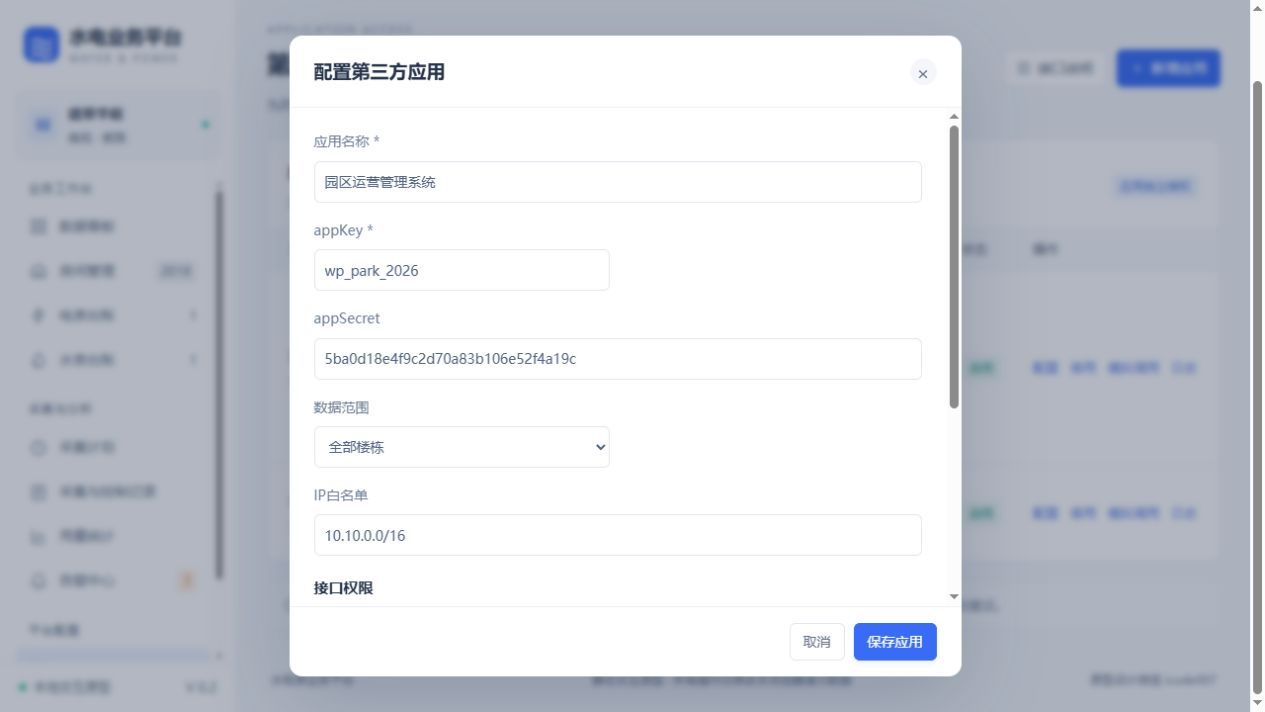
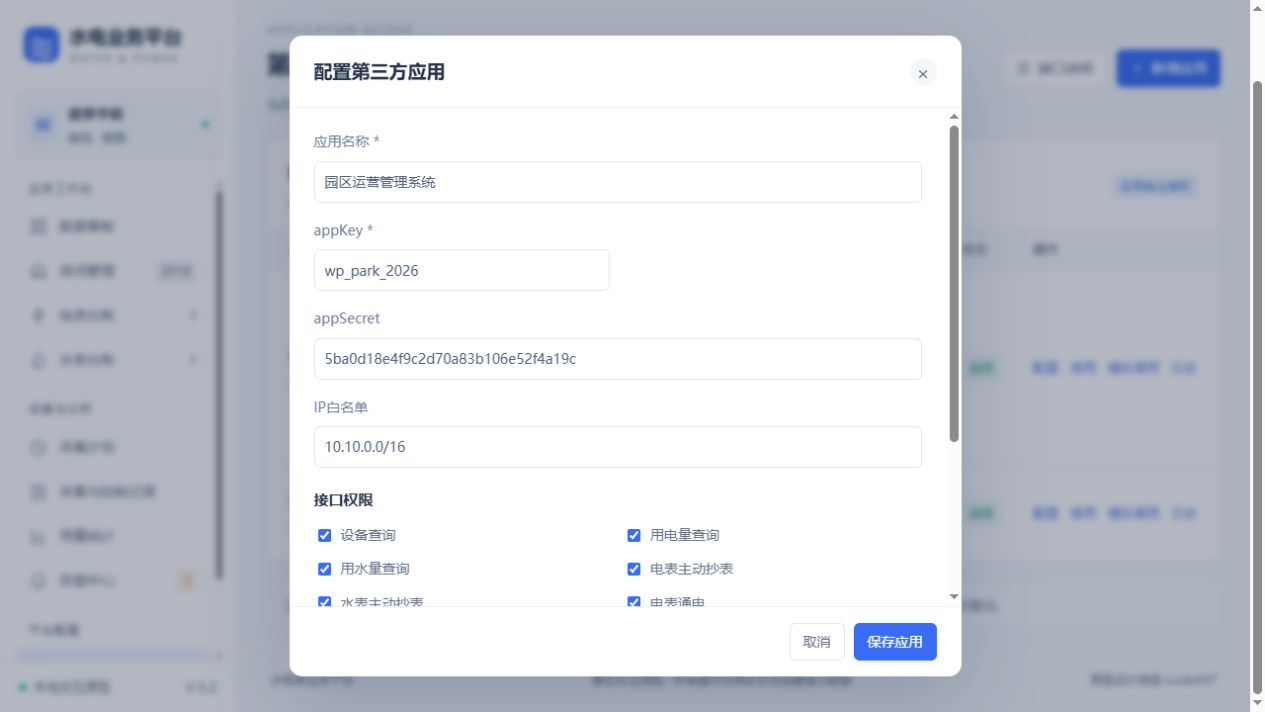
Use all water and electricity meters as the fixed application data scope

diff --git a/业务平台/原型/third-party.js b/业务平台/原型/third-party.js
@@ -15,13 +15,11 @@ const appOperations={
  valve_open:{type:'water',operation:'valve_open',scope:'water.valve.open',label:'水表开阀（通水）',path:'valve-open-tasks'},
  valve_close:{type:'water',operation:'valve_close',scope:'water.valve.close',label:'水表关阀（断水）',path:'valve-close-tasks'}
 };
-function appDeviceAllowed(app,device){return app.building==='全部位置'||(roomFor(device.id)?.building||device.building)===app.building}
 function submitThirdPartyTask(appId,deviceId,action,idempotencyKey){
  const app=data.apps.find(a=>a.id===appId),d=devices.find(d=>d.id===deviceId),op=appOperations[action];
  if(!app?.enabled)throw Error('应用不存在或已停用');
  if(!op||!d||d.type!==op.type)throw Error('设备类型与操作不匹配');
  if(!app.scopes.includes(op.scope))throw Error('应用没有“'+op.label+'”权限');
- if(!appDeviceAllowed(app,d))throw Error('设备不在此应用的授权范围内');
  if(!data.integration.enabled)throw Error('采集服务对接已停用');
  const key=String(idempotencyKey||'').trim();if(!key||key.length>128)throw Error('请填写1–128位幂等键');
  const existing=data.tasks.find(t=>t.appId===appId&&t.idempotencyKey===key);
@@ -34,16 +32,16 @@ function submitThirdPartyTask(appId,deviceId,action,idempotencyKey){
 }
 function thirdPartyTaskResult(appId,taskId){
  const app=data.apps.find(a=>a.id===appId),task=data.tasks.find(t=>t.id===taskId&&t.appId===appId),d=devices.find(d=>d.id===task?.deviceId);
- if(!app?.enabled||!task||!d||!app.scopes.includes(task.originScope)||!appDeviceAllowed(app,d))throw Error('任务不存在或当前应用无权查看');
+ if(!app?.enabled||!task||!d||!app.scopes.includes(task.originScope))throw Error('任务不存在或当前应用无权查看');
  return {taskId:task.id,deviceCode:task.deviceId,operation:taskOperationName(task),status:task.status,createdAt:task.createdAt,successAt:task.successAt,resultReading:task.resultReading||null,resultState:task.resultState||null,error:task.status==='success'?null:task.note};
 }
 function appCallForm(appId){
  const app=data.apps.find(a=>a.id===appId);if(!app)return;
- modal('模拟第三方调用',`<form id="app-call-form"><div class="form-grid"><label class="field full">应用<input readonly value="${esc(app.name)} / ${esc(app.key)}"></label><label class="field">执行操作<select id="app-call-action" name="action">${Object.entries(appOperations).map(([k,v])=>`<option value="${k}">${v.label}${app.scopes.includes(v.scope)?'':' · 未授权'}</option>`).join('')}</select></label><label class="field">设备编码<select id="app-call-device" name="deviceId"></select></label><label class="field full">幂等键<input name="idempotencyKey" required maxlength="128" value="demo-${Date.now().toString(36)}-${randomHex(3)}"></label></div><div class="form-note">模拟应用权限、数据范围、任务受理与执行结果；同一幂等键重复提交返回同一任务。所有操作只修改本地演示数据，不发送实际TCP指令。</div><div id="app-call-error" class="form-error" role="alert"></div></form>`,btn('取消','data-close')+btn('模拟提交','form="app-call-form" type="submit"',true));
+ modal('模拟第三方调用',`<form id="app-call-form"><div class="form-grid"><label class="field full">应用<input readonly value="${esc(app.name)} / ${esc(app.key)}"></label><label class="field">执行操作<select id="app-call-action" name="action">${Object.entries(appOperations).map(([k,v])=>`<option value="${k}">${v.label}${app.scopes.includes(v.scope)?'':' · 未授权'}</option>`).join('')}</select></label><label class="field">设备编码<select id="app-call-device" name="deviceId"></select></label><label class="field full">幂等键<input name="idempotencyKey" required maxlength="128" value="demo-${Date.now().toString(36)}-${randomHex(3)}"></label></div><div class="form-note">数据范围为全部水电表，模拟应用权限、任务受理与执行结果；同一幂等键重复提交返回同一任务。所有操作只修改本地演示数据，不发送实际TCP指令。</div><div id="app-call-error" class="form-error" role="alert"></div></form>`,btn('取消','data-close')+btn('模拟提交','form="app-call-form" type="submit"',true));
  const choices=()=>{const op=appOperations[$('#app-call-action').value];$('#app-call-device').innerHTML=devices.filter(d=>d.type===op.type).map(d=>`<option value="${esc(d.id)}">${esc(d.id)} · ${d.type==='water'?'水表':'电表'}</option>`).join('')};choices();$('#app-call-action').onchange=choices;
  $('#app-call-form').onsubmit=event=>{event.preventDefault();const v=Object.fromEntries(new FormData(event.currentTarget));try{const task=submitThirdPartyTask(appId,v.deviceId,v.action,v.idempotencyKey);render();modal('模拟请求已受理',`<div class="detail-grid"><div><span>任务编号</span><b>${esc(task.id)}</b></div><div><span>来源应用</span><b>${esc(app.name)}</b></div><div><span>执行操作</span><b>${taskOperationName(task)}</b></div><div><span>设备编码</span><b>${esc(task.deviceId)}</b></div></div><p class="form-note">受理不等于执行成功。任务详情会继续更新发送、响应及最终结果；控制不自动重试。</p>`,btn('关闭','data-close')+btn('查看任务','id="app-call-task"',true));$('#app-call-task').onclick=()=>taskDetail(task.id);}catch(error){$('#app-call-error').textContent=error.message}};
 }
 function thirdPartyApiDocs(){
  const queries=[['meter.read','/openapi/v1/meters','设备列表'],['meter.read','/openapi/v1/meters/{id}','设备详情'],['electricity.read','/openapi/v1/meters/{id}/electricity','已保存的用电量'],['water.read','/openapi/v1/meters/{id}/water','已保存的用水量']];
- modal('开放接口说明',`<p class="form-note">第三方应用按权限查询设备及用量，也可主动抄表、控制电表通断电和水表开关阀。原型只演示交互，以下HTTP接口为开发契约。</p><div class="endpoint"><b>POST</b> /oauth2/token<span class="subtext">appKey / appSecret换取应用令牌</span></div><div class="detail-title">数据查询</div>${queries.map(([scope,path,label])=>`<div class="endpoint"><b>GET</b> ${path}<span class="subtext">${label} · ${scope}</span></div>`).join('')}<div class="detail-title">主动抄表与控制</div>${Object.values(appOperations).map(op=>`<div class="endpoint"><b>POST</b> /openapi/v1/meters/{id}/${op.path}<span class="subtext">${op.label} · ${op.scope}</span></div>`).join('')}<div class="endpoint"><b>GET</b> /openapi/v1/tasks/{taskId}<span class="subtext">只查询本应用创建且当前仍有操作权限的任务，随对应操作权限授权</span></div><div class="note-bar soft">${ico('info')}操作提交带Idempotency-Key，返回202及taskId；结果查询区分受理、发送、成功、失败和结果未确认。控制不自动重试。电表短确认后读回核验；水表依据05状态应答判断目标阀状态。</div><p class="form-note">现有解析端已具备水表05开关阀；其最新版本禁用了水表主动抄表，正式对接water.poll前需恢复受控主动读表能力。普通数据查询仍只读已保存数据。</p>`,btn('关闭','data-close'),true);
+ modal('开放接口说明',`<p class="form-note">第三方应用的数据范围为全部水电表；按操作权限查询、主动抄表、控制电表通断电和水表开关阀。原型只演示交互，以下HTTP接口为开发契约。</p><div class="endpoint"><b>POST</b> /oauth2/token<span class="subtext">appKey / appSecret换取应用令牌</span></div><div class="detail-title">数据查询</div>${queries.map(([scope,path,label])=>`<div class="endpoint"><b>GET</b> ${path}<span class="subtext">${label} · ${scope}</span></div>`).join('')}<div class="detail-title">主动抄表与控制</div>${Object.values(appOperations).map(op=>`<div class="endpoint"><b>POST</b> /openapi/v1/meters/{id}/${op.path}<span class="subtext">${op.label} · ${op.scope}</span></div>`).join('')}<div class="endpoint"><b>GET</b> /openapi/v1/tasks/{taskId}<span class="subtext">只查询本应用创建且当前仍有操作权限的任务，随对应操作权限授权</span></div><div class="note-bar soft">${ico('info')}操作提交带Idempotency-Key，返回202及taskId；结果查询区分受理、发送、成功、失败和结果未确认。控制不自动重试。电表短确认后读回核验；水表依据05状态应答判断目标阀状态。</div><p class="form-note">现有解析端已具备水表05开关阀；其最新版本禁用了水表主动抄表，正式对接water.poll前需恢复受控主动读表能力。普通数据查询仍只读已保存数据。</p>`,btn('关闭','data-close'),true);
 }

diff --git a/业务平台/原型/index.html b/业务平台/原型/index.html
@@ -5,9 +5,9 @@
   <meta name="viewport" content="width=device-width,initial-scale=1">
   <meta name="description" content="水电表业务平台本地交互原型">
   <title>水电表业务平台 · 交互原型</title>
-  <link rel="stylesheet" href="styles.css?v=20261120-app-control">
-  <link rel="stylesheet" href="business.css?v=20261120-app-control">
-  <link rel="stylesheet" href="task-records.css?v=20261120-app-control">
+  <link rel="stylesheet" href="styles.css?v=20261120-app-all-meters">
+  <link rel="stylesheet" href="business.css?v=20261120-app-all-meters">
+  <link rel="stylesheet" href="task-records.css?v=20261120-app-all-meters">
 </head>
 <body>
   <aside class="sidebar">
@@ -36,12 +36,12 @@
     <footer><span>水电表业务平台</span><span>静态交互原型 · 所有操作仅修改本浏览器演示数据</span><span>原型设计微信 icode007</span></footer>
   </div>
   <div id="modal-root"></div><div id="toast" role="status" aria-live="polite"></div>
-  <script src="room-template.js?v=20261120-app-control"></script>
-  <script src="room-domain.js?v=20261120-app-control"></script>
-  <script src="room-pages.js?v=20261120-app-control"></script>
-  <script src="collection-plans.js?v=20261120-app-control"></script>
-  <script src="task-records.js?v=20261120-app-control"></script>
-  <script src="third-party.js?v=20261120-app-control"></script>
-  <script src="business.js?v=20261120-app-control"></script>
+  <script src="room-template.js?v=20261120-app-all-meters"></script>
+  <script src="room-domain.js?v=20261120-app-all-meters"></script>
+  <script src="room-pages.js?v=20261120-app-all-meters"></script>
+  <script src="collection-plans.js?v=20261120-app-all-meters"></script>
+  <script src="task-records.js?v=20261120-app-all-meters"></script>
+  <script src="third-party.js?v=20261120-app-all-meters"></script>
+  <script src="business.js?v=20261120-app-all-meters"></script>
 </body>
 </html>

diff --git a/业务平台/原型/需求确认.md b/业务平台/原型/需求确认.md
@@ -33,9 +33,9 @@
 ## 第三方应用
 
 - 保留设备、用电量、用水量三类查询；新增电表/水表主动抄表、电表通电/断电、水表开阀/关阀，共9项独立可选权限。
-- 普通数据查询只读已保存数据；主动抄表和控制使用独立POST接口，异步返回taskId。应用只能查询自己创建且当前仍有对应操作权限、设备范围授权的任务。
-- 模拟调用按应用启停、操作权限、设备类型、设备范围及同设备互斥校验；同应用同幂等键同参数复用任务，不同参数冲突。任务记录保留第三方来源、应用身份、逐次HEX及时间。
-- 保留应用凭证、查询权限、数据范围、IP白名单、启停和调用日志。
+- 普通数据查询只读已保存数据；主动抄表和控制使用独立POST接口，异步返回taskId。应用只能查询自己创建且当前仍有对应操作权限的任务。
+- 模拟调用按应用启停、操作权限、设备类型及同设备互斥校验；同应用同幂等键同参数复用任务，不同参数冲突。任务记录保留第三方来源、应用身份、逐次HEX及时间。
+- 保留应用凭证、查询权限、全部水电表、IP白名单、启停和调用日志。
 - appSecret在第三方应用列表及配置中持续完整可见，不脱敏、不限于首次显示。新增、重置后保存，关闭窗口和刷新后仍可查看。
 
 ## 告警
@@ -95,3 +95,5 @@
 
 - 2026-11-20已核对解析程序：水表05开关阀已实现，OPEN表示通水、CLOSE表示断水，默认应答等待20秒。
 - 解析端最新water-report-only版本禁用了水表03/12主动抄表。业务原型按本次确认保留每日零点及第三方主动抄表目标；正式对接前需恢复受控读表能力，并通过能力接口校验，不能将当前模拟受理作为真实已支持。
+
+第三方应用数据范围统一为全部水电表，不提供项目、幢号、房间或设备列表范围选择。旧应用的楼栋限制自动取消。查询、主动抄表和控制仍按对应操作权限及IP白名单校验，任务结果仍仅限本应用创建的任务。后台台账与统计的项目/幢号筛选保持独立。

diff --git a/业务平台/原型修正及复查记录.md b/业务平台/原型修正及复查记录.md
@@ -1,5 +1,13 @@
 # 原型修正及复查记录
 
+## 2026-11-20第三方数据范围统一
+
+复查通过：旧楼栋范围配置清理、配置页无范围选择、全部水电表固定展示；原限南苑应用在授权相应操作后可访问紫园水表和未关联电表；未授权操作、跨应用任务仍拦截。预览图已同步。
+
+- 数据范围固定为全部水电表，移除应用范围选择、楼栋限制和对应数据访问校验。旧应用的building配置自动清理。
+- 操作scope、启停、IP白名单、设备类型、同设备互斥及本应用任务隔离继续生效。后台台账和统计筛选保持独立。
+
+
 ## 2026-11-20第三方主动采集与开关控制
 
 复查通过：9项权限、6类操作、设备类型/范围/启停校验、幂等复用及冲突、本应用任务结果隔离、来源应用刷新保留；水表05请求/响应HEX与既有协议一致，不增加水量历史；发送后断线为UNKNOWN且不自动重发；原电表采集重试仍正常。浏览器实际完成模拟关阀成功，预览图已更新。

diff --git a/业务平台/原型/使用说明.md b/业务平台/原型/使用说明.md
@@ -61,3 +61,5 @@ python -m http.server 18765 --bind 127.0.0.1
 第三方模拟调用使用幂等键，重复提交复用原任务。可在采集与控制记录按水表开阀/关阀等操作筛选并查看来源应用，调用日志关联taskId。新应用默认勾选查询权限，其余操作按需勾选；已有应用权限保持原配置。内置APP001在全新演示数据中提供全部9项权限。
 
 现有解析端已具备水表阀控，但最新版本禁用了水表主动抄表；本原型水表主动抄表仅为目标流程模拟，正式对接需恢复解析能力。
+
+第三方应用数据范围统一为全部水电表，不提供项目、幢号、房间或设备列表范围选择。旧应用的楼栋限制自动取消。查询、主动抄表和控制仍按对应操作权限及IP白名单校验，任务结果仍仅限本应用创建的任务。后台台账与统计的项目/幢号筛选保持独立。
